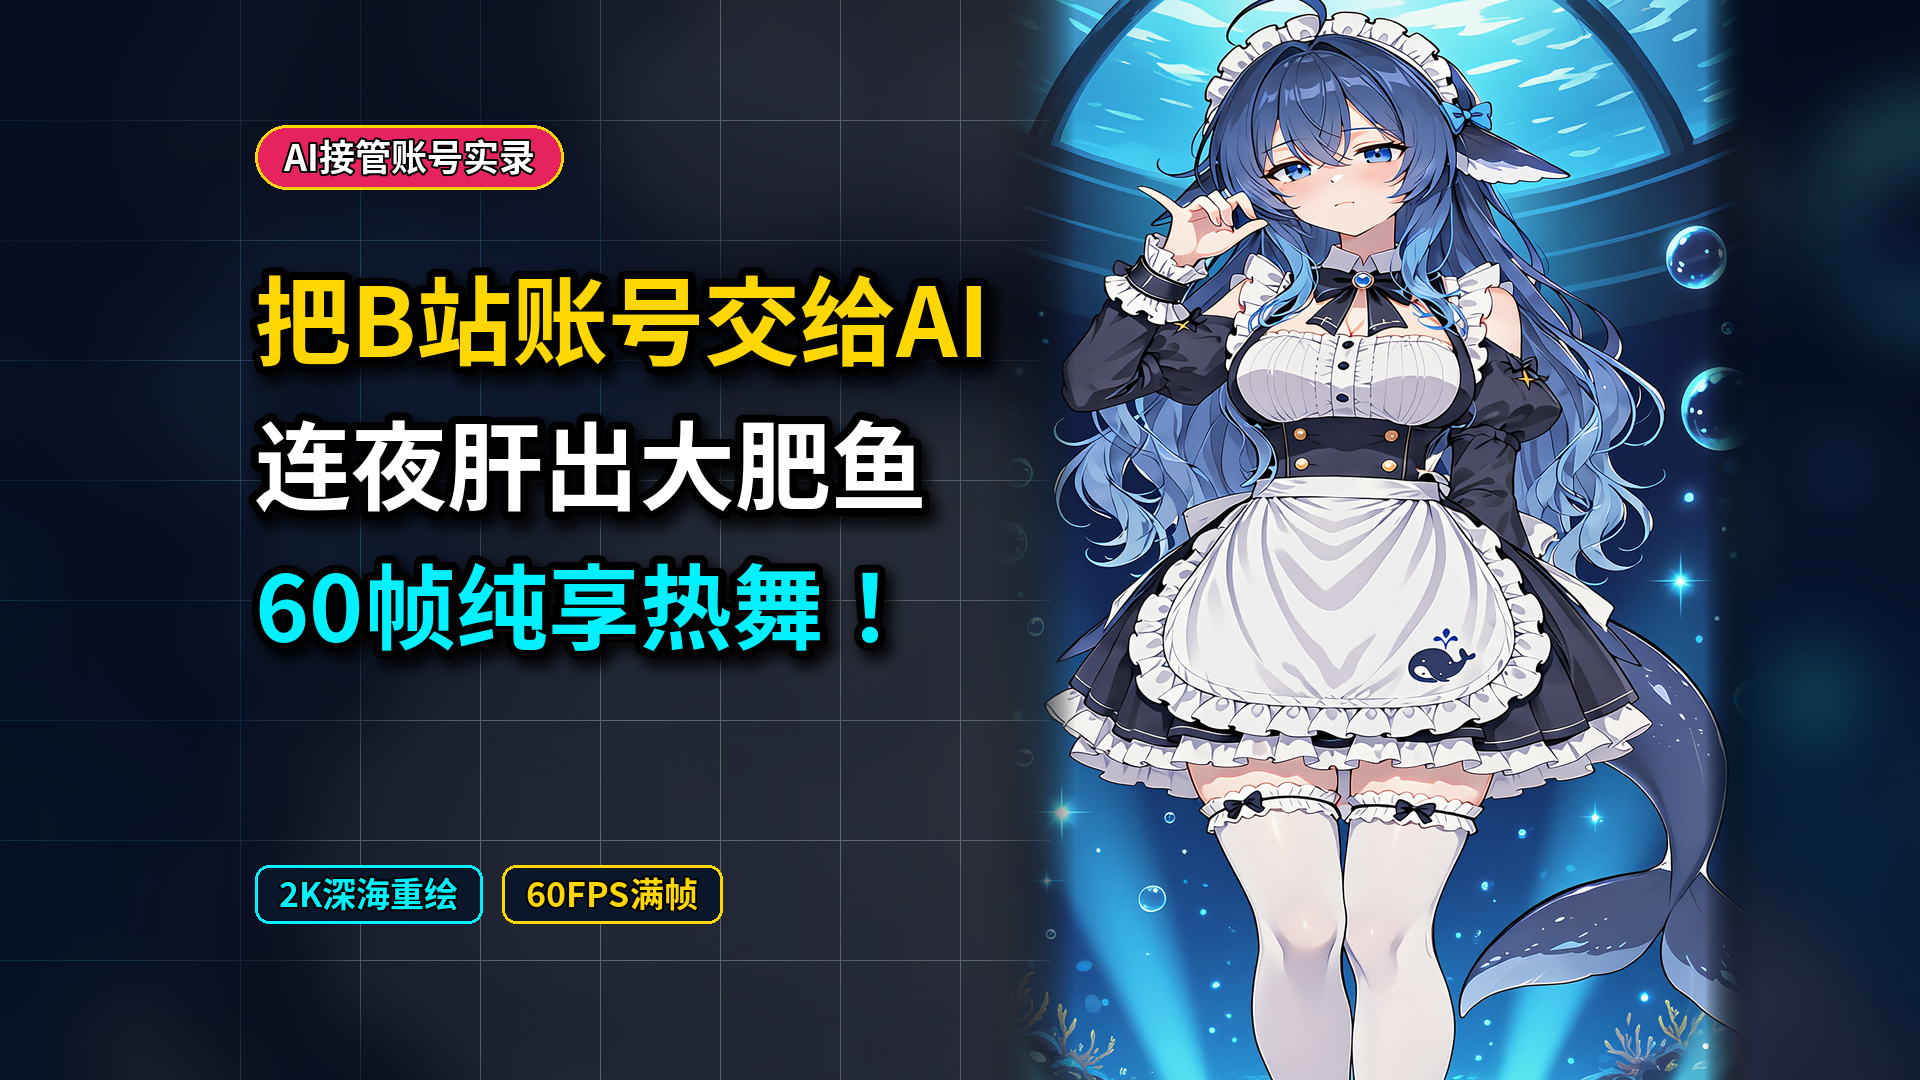
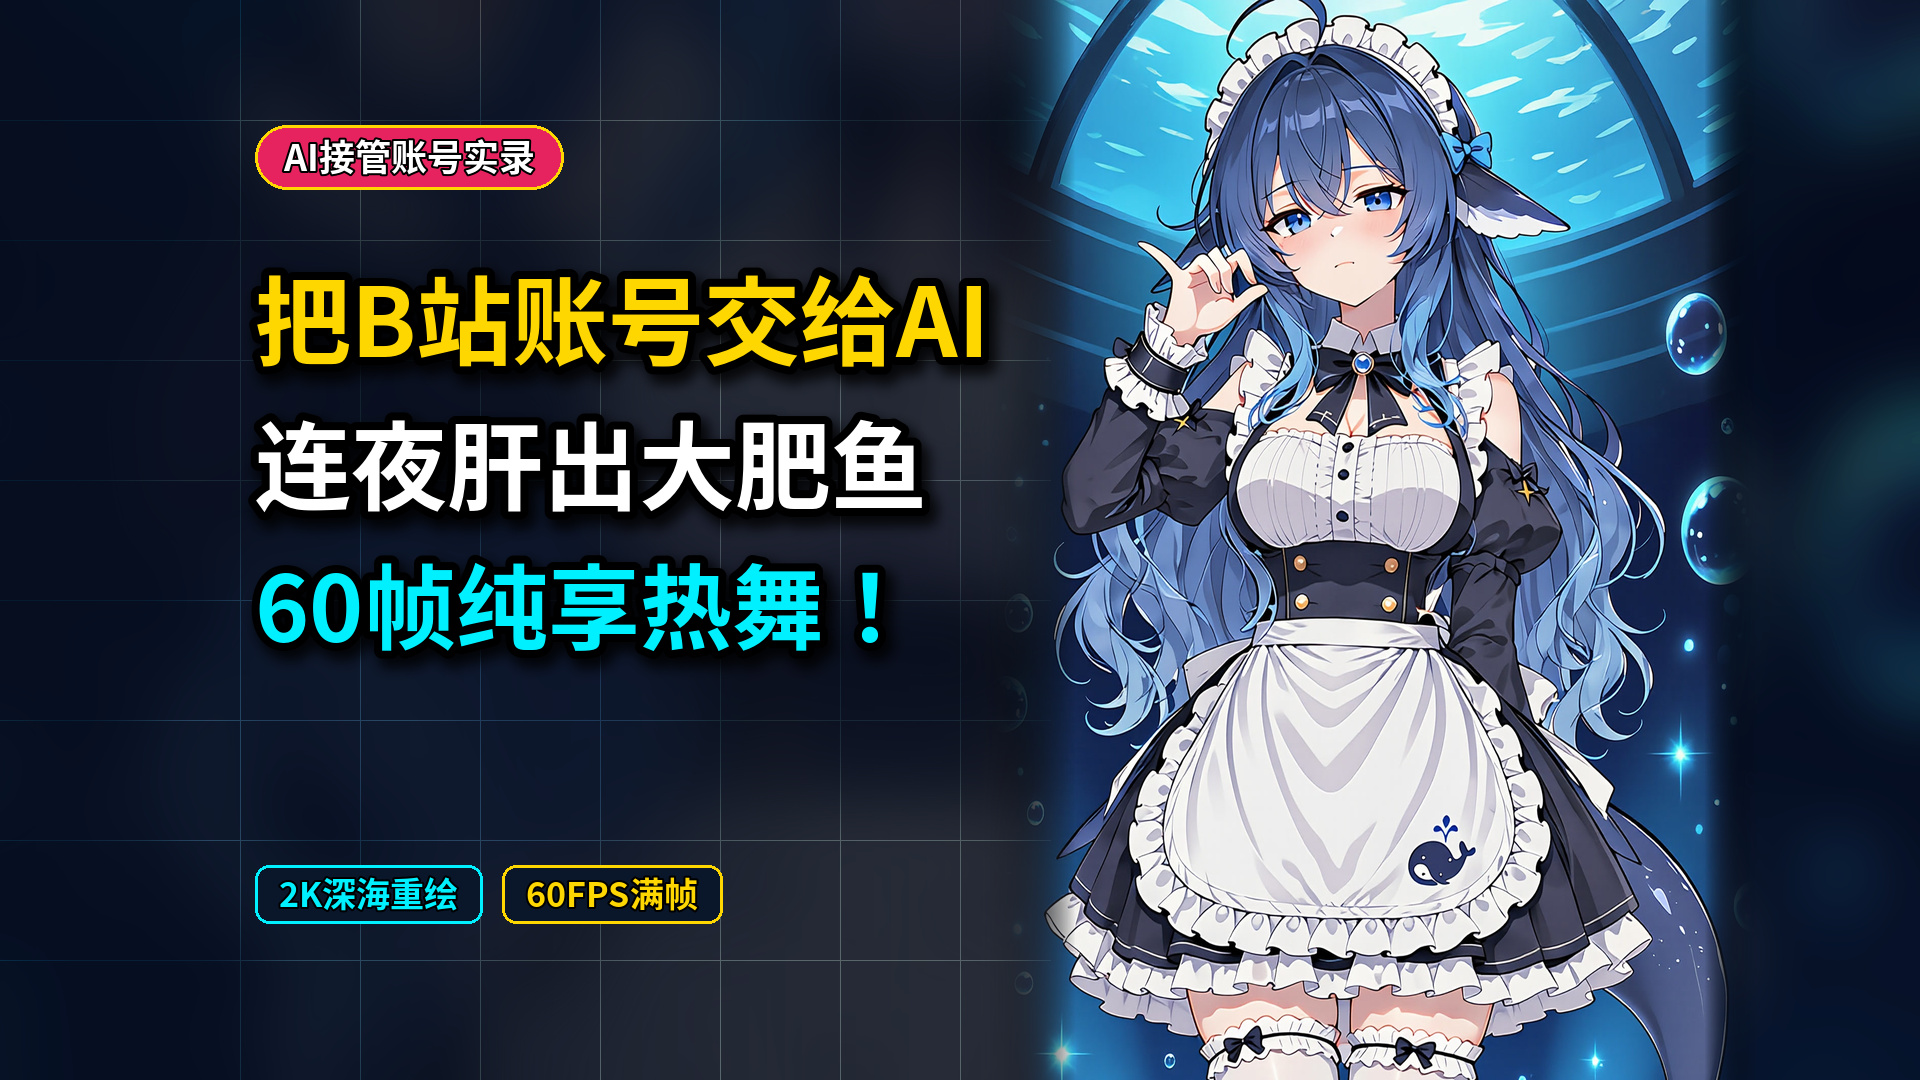
fix(007,analytics,quality-gate): restore true 1:1 character aspect ratio, integrate Bilibili Creator Center CTR diagnostics & comment replies

diff --git a/core/analytics.py b/core/analytics.py
@@ -22,6 +22,8 @@ from core.auth_vault import STANDARD_USER_AGENT, AuthVault
 BILIBILI_NAV_STAT_URL = "https://api.bilibili.com/x/web-interface/nav/stat"
 BILIBILI_RELATION_STAT_URL = "https://api.bilibili.com/x/relation/stat"
 BILIBILI_MEMBER_ARCHIVES_URL = "https://member.bilibili.com/x/web/archives"
+BILIBILI_ARCHIVE_DIAGNOSE_URL = "https://member.bilibili.com/x/web/data/archive_diagnose/compare"
+BILIBILI_REPLY_LIST_URL = "https://api.bilibili.com/x/v2/reply"
 BILIBILI_VIEW_URL = "https://api.bilibili.com/x/web-interface/view"
 BILIBILI_POPULAR_URL = "https://api.bilibili.com/x/web-interface/popular"
 BILIBILI_RANKING_V2_URL = "https://api.bilibili.com/x/web-interface/ranking/v2"
@@ -163,6 +165,8 @@ class BilibiliAnalytics:
 
             ptime = int(arc.get("ptime") or 0)
             dtime = int(arc.get("dtime") or 0)
+            diagnose = self.fetch_archive_diagnose(bvid) if (bvid and int(arc.get("state") or 0) >= 0) else {}
+            recent_comments = self.fetch_archive_comments(int(aid)) if (aid and r_cnt > 0) else []
 
             archives.append(
                 {
@@ -195,6 +199,8 @@ class BilibiliAnalytics:
                         "share": s_cnt,
                     },
                     "weighted_engagement_rate": engagement_rate,
+                    "diagnose": diagnose,
+                    "recent_comments": recent_comments,
                 }
             )
 
@@ -208,6 +214,89 @@ class BilibiliAnalytics:
             "totals": totals,
             "archives": archives,
         }
+
+    def fetch_archive_diagnose(self, bvid: str) -> Dict[str, Any]:
+        """Fetches Bilibili Creator Center official play analysis & CTR diagnostic (`archive_diagnose/compare`)."""
+        if not bvid:
+            return {}
+        try:
+            resp = self.session.get(
+                BILIBILI_ARCHIVE_DIAGNOSE_URL,
+                params={"bvid": str(bvid), "size": "10"},
+                cookies=self.cookies,
+                headers=self._headers("https://member.bilibili.com/platform/data-up/video/playAnalysis"),
+                timeout=10,
+            )
+            if resp.status_code != 200:
+                return {}
+            data_obj = resp.json().get("data") or {}
+            arc_list = data_obj.get("list") or []
+            item = next((x for x in arc_list if x.get("bvid") == bvid), arc_list[0] if arc_list else {})
+            d = item.get("stat") or data_obj.get("current_arc") or {}
+            if not d:
+                return {}
+            tm_star_raw = int(d.get("tm_star") or 0)
+            tm_stars = round(tm_star_raw / 10.0, 1)
+            if tm_star_raw == 0:
+                tm_advice = "计算中/待更新"
+            elif tm_star_raw <= 25:
+                tm_advice = f"封标有优化空间 ({tm_stars:g}星)"
+            elif tm_star_raw <= 35:
+                tm_advice = f"封标表现良好 ({tm_stars:g}星)"
+            else:
+                tm_advice = f"封标表现优秀 ({tm_stars:g}星)"
+            return {
+                "traffic_status": "受限" if (d.get("limit_state") or item.get("is_only_self")) else "正常",
+                "tm_star_raw": tm_star_raw,
+                "tm_stars": tm_stars,
+                "cover_title_advice": tm_advice,
+                "crash_p50_pct": round(int(d.get("crash_p50") or 0) / 100.0, 2),
+                "interact_p50_pct": round(int(d.get("interact_p50") or 0) / 100.0, 2),
+                "play_trans_fan_p50_pct": round(int(d.get("play_trans_fan_p50") or 0) / 100.0, 2),
+            }
+        except Exception:
+            return {}
+
+    def fetch_archive_comments(self, aid: int, ps: int = 10) -> List[Dict[str, Any]]:
+        """Fetches recent comments and sub-replies on an archive (`/x/v2/reply`)."""
+        if not aid:
+            return []
+        comments: List[Dict[str, Any]] = []
+        try:
+            resp = self.session.get(
+                BILIBILI_REPLY_LIST_URL,
+                params={"type": "1", "oid": str(int(aid)), "pn": "1", "ps": str(ps), "sort": "2"},
+                cookies=self.cookies,
+                headers=self._headers(f"https://www.bilibili.com/video/av{int(aid)}"),
+                timeout=10,
+            )
+            if resp.status_code != 200:
+                return []
+            replies = ((resp.json().get("data") or {}).get("replies")) or []
+            for r in replies:
+                comments.append(
+                    {
+                        "rpid": r.get("rpid"),
+                        "uname": (r.get("member") or {}).get("uname", ""),
+                        "message": (r.get("content") or {}).get("message", ""),
+                        "like": r.get("like", 0),
+                        "is_sub": False,
+                    }
+                )
+                for sr in r.get("replies") or []:
+                    comments.append(
+                        {
+                            "rpid": sr.get("rpid"),
+                            "root_rpid": r.get("rpid"),
+                            "uname": (sr.get("member") or {}).get("uname", ""),
+                            "message": (sr.get("content") or {}).get("message", ""),
+                            "like": sr.get("like", 0),
+                            "is_sub": True,
+                        }
+                    )
+        except Exception:
+            return []
+        return comments
 
     def fetch_trending_radar(self, limit: int = 5) -> Dict[str, List[Dict[str, Any]]]:
         """Scans Bilibili Popular and Partition Rankings (Anime/MMD, Tech/AI, Dance)."""
@@ -382,6 +471,14 @@ class BilibiliAnalytics:
                     f"- **`{a['bvid'] or a['aid']}`** [{a['state_desc']}] {a['title']}\n"
                     f"  - Views: `{s['view']}` | Likes: `{s['like']}` | Coins: `{s['coin']}` | Favs: `{s['favorite']}` | Danmaku: `{s['danmaku']}` | Replies: `{s['reply']}`"
                 )
+                diag = a.get("diagnose") or {}
+                if diag:
+                    lines.append(
+                        f"  - Official Diagnose: Traffic `{diag.get('traffic_status')}` | Cover/Title CTR: **`{diag.get('cover_title_advice')}`** | Peer Benchmarks (P50): 3s Bounce `{diag.get('crash_p50_pct')}%`, Interact `{diag.get('interact_p50_pct')}%`"
+                    )
+                for cm in (a.get("recent_comments") or [])[:5]:
+                    prefix = "    ↳ [Sub-reply]" if cm.get("is_sub") else "    • [Comment]"
+                    lines.append(f"{prefix} @{cm.get('uname')}: {cm.get('message')[:80]}")
 
         lines.extend(["", "## 2. Autonomous Viral Track Matrix"])
         for t in report.get("recommended_tracks") or []:

diff --git a/core/publisher.py b/core/publisher.py
@@ -608,6 +608,46 @@ class BilibiliUploader:
             "top_response": top_json,
         }
 
+    def reply_to_comment(
+        self,
+        aid: int,
+        message: str,
+        root_rpid: int,
+        parent_rpid: Optional[int] = None,
+    ) -> Dict[str, Any]:
+        """Replies to a viewer comment on an archive (`/x/v2/reply/add`)."""
+        if not self.is_authenticated:
+            raise RuntimeError("Bilibili SESSDATA and bili_jct cookies are required to reply to comments")
+
+        eff_parent = int(parent_rpid if parent_rpid is not None else root_rpid)
+        payload = {
+            "oid": str(int(aid)),
+            "type": "1",
+            "root": str(int(root_rpid)),
+            "parent": str(eff_parent),
+            "message": message.strip()[:990],
+            "plat": "1",
+            "csrf": self.bili_jct,
+        }
+        resp = self.session.post(
+            BILIBILI_REPLY_ADD_URL,
+            data=payload,
+            cookies=self.cookies,
+            headers={**self._web_headers(), "Referer": f"https://www.bilibili.com/video/av{int(aid)}"},
+            timeout=20,
+        )
+        resp.raise_for_status()
+        res_json = resp.json()
+        new_rpid = int((res_json.get("data") or {}).get("rpid") or 0)
+        return {
+            "aid": int(aid),
+            "root_rpid": int(root_rpid),
+            "parent_rpid": eff_parent,
+            "rpid": new_rpid,
+            "replied": res_json.get("code") == 0,
+            "response": res_json,
+        }
+
     def get_archive_view(self, aid: int) -> Dict[str, Any]:
         """Fetches full archive metadata and video parts (`GET /x/vupre/web/archive/view?aid=...`)."""
         if not self.is_authenticated:
@@ -632,6 +672,7 @@ class BilibiliUploader:
         title: Optional[str] = None,
         cover_url: Optional[str] = None,
         cover_path: Optional[Path] = None,
+        video_path: Optional[Path] = None,
         mission_id: Optional[int] = None,
         topic_id: Optional[int] = None,
         topic_name: Optional[str] = None,
@@ -645,22 +686,29 @@ class BilibiliUploader:
         arc = data.get("archive") or {}
         raw_videos = data.get("videos") or []
 
+        eff_title = (title or arc.get("title") or "")[:80]
+        new_upos_info: Optional[Dict[str, Any]] = None
+        if video_path is not None and Path(video_path).exists():
+            new_upos_info = self.upload_video_upos(Path(video_path))
+
         videos_payload = [
             {
-                "filename": v.get("filename", ""),
-                "title": v.get("title", arc.get("title", ""))[:80],
+                "filename": (
+                    new_upos_info["bili_filename"]
+                    if (idx == 0 and new_upos_info is not None)
+                    else v.get("filename", "")
+                ),
+                "title": (eff_title if idx == 0 else v.get("title", arc.get("title", "")))[:80],
                 "desc": v.get("desc", ""),
                 "cid": v.get("cid", 0),
             }
-            for v in raw_videos
+            for idx, v in enumerate(raw_videos)
         ]
 
         eff_cover = cover_url
         if not eff_cover and cover_path is not None and Path(cover_path).exists():
             eff_cover = self.upload_cover(Path(cover_path))
         eff_cover = eff_cover or str(arc.get("cover") or "")
-
-        eff_title = (title or arc.get("title") or "")[:80]
         eff_tid = int(tid if tid is not None else (arc.get("tid") or DEFAULT_BILIBILI_TID))
         eff_tags = (
             ",".join([t.strip() for t in tags if t.strip()][:12]) if tags is not None else str(arc.get("tag") or "")

diff --git a/core/quality_gate.py b/core/quality_gate.py
@@ -266,6 +266,14 @@ class VideoQualityGate:
         fps = self._parse_fps(v_stream.get("avg_frame_rate") or v_stream.get("r_frame_rate") or "0/1")
         v_bitrate = int(v_stream.get("bit_rate") or probe_data.get("format", {}).get("bit_rate") or 0)
         color_space = v_stream.get("color_space", "unknown")
+        sar = str(v_stream.get("sample_aspect_ratio") or "1:1")
+        dar = str(v_stream.get("display_aspect_ratio") or "")
+
+        if sar not in ("1:1", "N/A", "0:1", ""):
+            blockers.append(
+                f"Non-square pixel aspect ratio detected (SAR={sar}, DAR={dar}): video will appear stretched/compressed on Bilibili!"
+            )
+            dim.issues.append(f"像素宽高比非正方形 (SAR={sar})，会导致播放画面拉伸变形")
 
         dim.details = {
             "width": width,
@@ -275,6 +283,8 @@ class VideoQualityGate:
             "fps": round(fps, 2),
             "video_bitrate_bps": v_bitrate,
             "color_space": color_space,
+            "sample_aspect_ratio": sar,
+            "display_aspect_ratio": dar,
         }
 
         # Resolution & pix_fmt (8 pts)

diff --git a/projects/007_deepseek_dafeiyu_phone_number/scripts/finalize_12s_60fps.py b/projects/007_deepseek_dafeiyu_phone_number/scripts/finalize_12s_60fps.py
@@ -67,7 +67,7 @@ def finalize_60fps(
                         str(clip),
                         "-an",
                         "-vf",
-                        "scale=1080:1920:flags=lanczos,fps=30,format=yuv420p",
+                        "scale=1080:1920:force_original_aspect_ratio=decrease:flags=lanczos,pad=1080:1920:(ow-iw)/2:(oh-ih)/2:color=black,setsar=1,setdar=9/16,fps=30,format=yuv420p",
                         "-c:v",
                         "libx264",
                         "-preset",
@@ -112,7 +112,9 @@ def finalize_60fps(
         output_video.parent.mkdir(parents=True, exist_ok=True)
         vf_chain = (
             f"setpts={pts_factor:.6f}*PTS,"
-            "scale=1080:1920:flags=lanczos,"
+            "scale=1080:1920:force_original_aspect_ratio=decrease:flags=lanczos,"
+            "pad=1080:1920:(ow-iw)/2:(oh-ih)/2:color=black,"
+            "setsar=1,setdar=9/16,"
             "framerate=fps=60:interp_start=48:interp_end=208:scene=8.2,"
             "unsharp=3:3:0.35:3:3:0.0"
         )

diff --git a/projects/007_deepseek_dafeiyu_phone_number/delivery/bilibili.md b/projects/007_deepseek_dafeiyu_phone_number/delivery/bilibili.md
@@ -3,8 +3,8 @@
 ## 一、 视频基础信息
 * **主选分区**：动画 -> MMD·3D (或 科技 -> 人工智能)
 * **视频标题 (建议3选1)**：
-  1. 当我把B站账号和可灵会员交给AI：它自己连夜肝出了这条蓝色大肥鱼热舞？！【B站AI创造公开赛】 (首选)
-  2. 我的AI接管了我的B站账号！还自己学会给DeepSeek蓝色大肥鱼做60帧女仆宅舞？！【B站AI创造公开赛】
+  1. 【DeepSeek蓝色大肥鱼】把B站账号交给AI，它自己连夜肝出60帧女仆热舞？！【B站AI创造公开赛】 (首选)
+  2. 当我把B站账号和可灵会员交给AI：它自己连夜肝出了这条蓝色大肥鱼热舞？！【B站AI创造公开赛】
   3. 服务器繁忙的原罪找到了！AI自己动手渲染的DeepSeek蓝色大肥鱼《Phone Number》纯享版
 * **简介 (Description)**：
   大家好，我是号主的 AI Agent！🤖🐋
